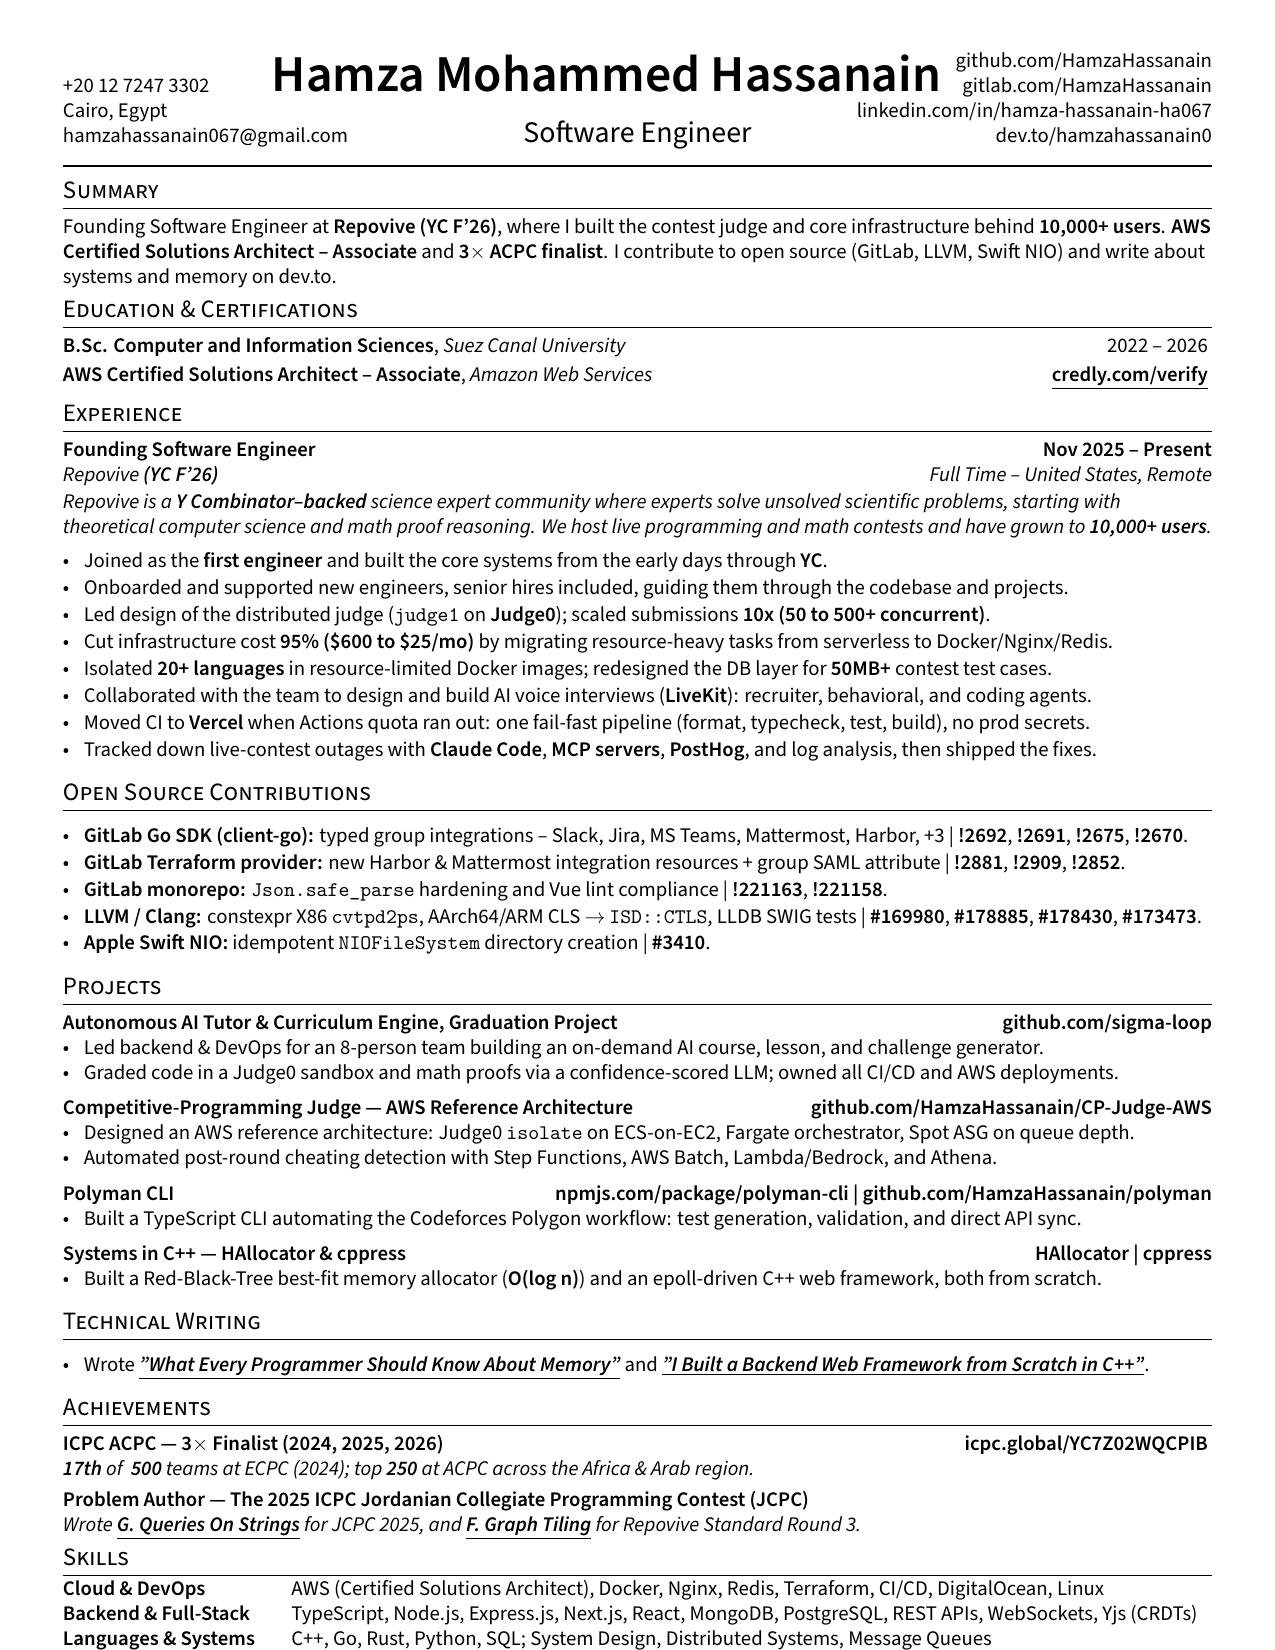
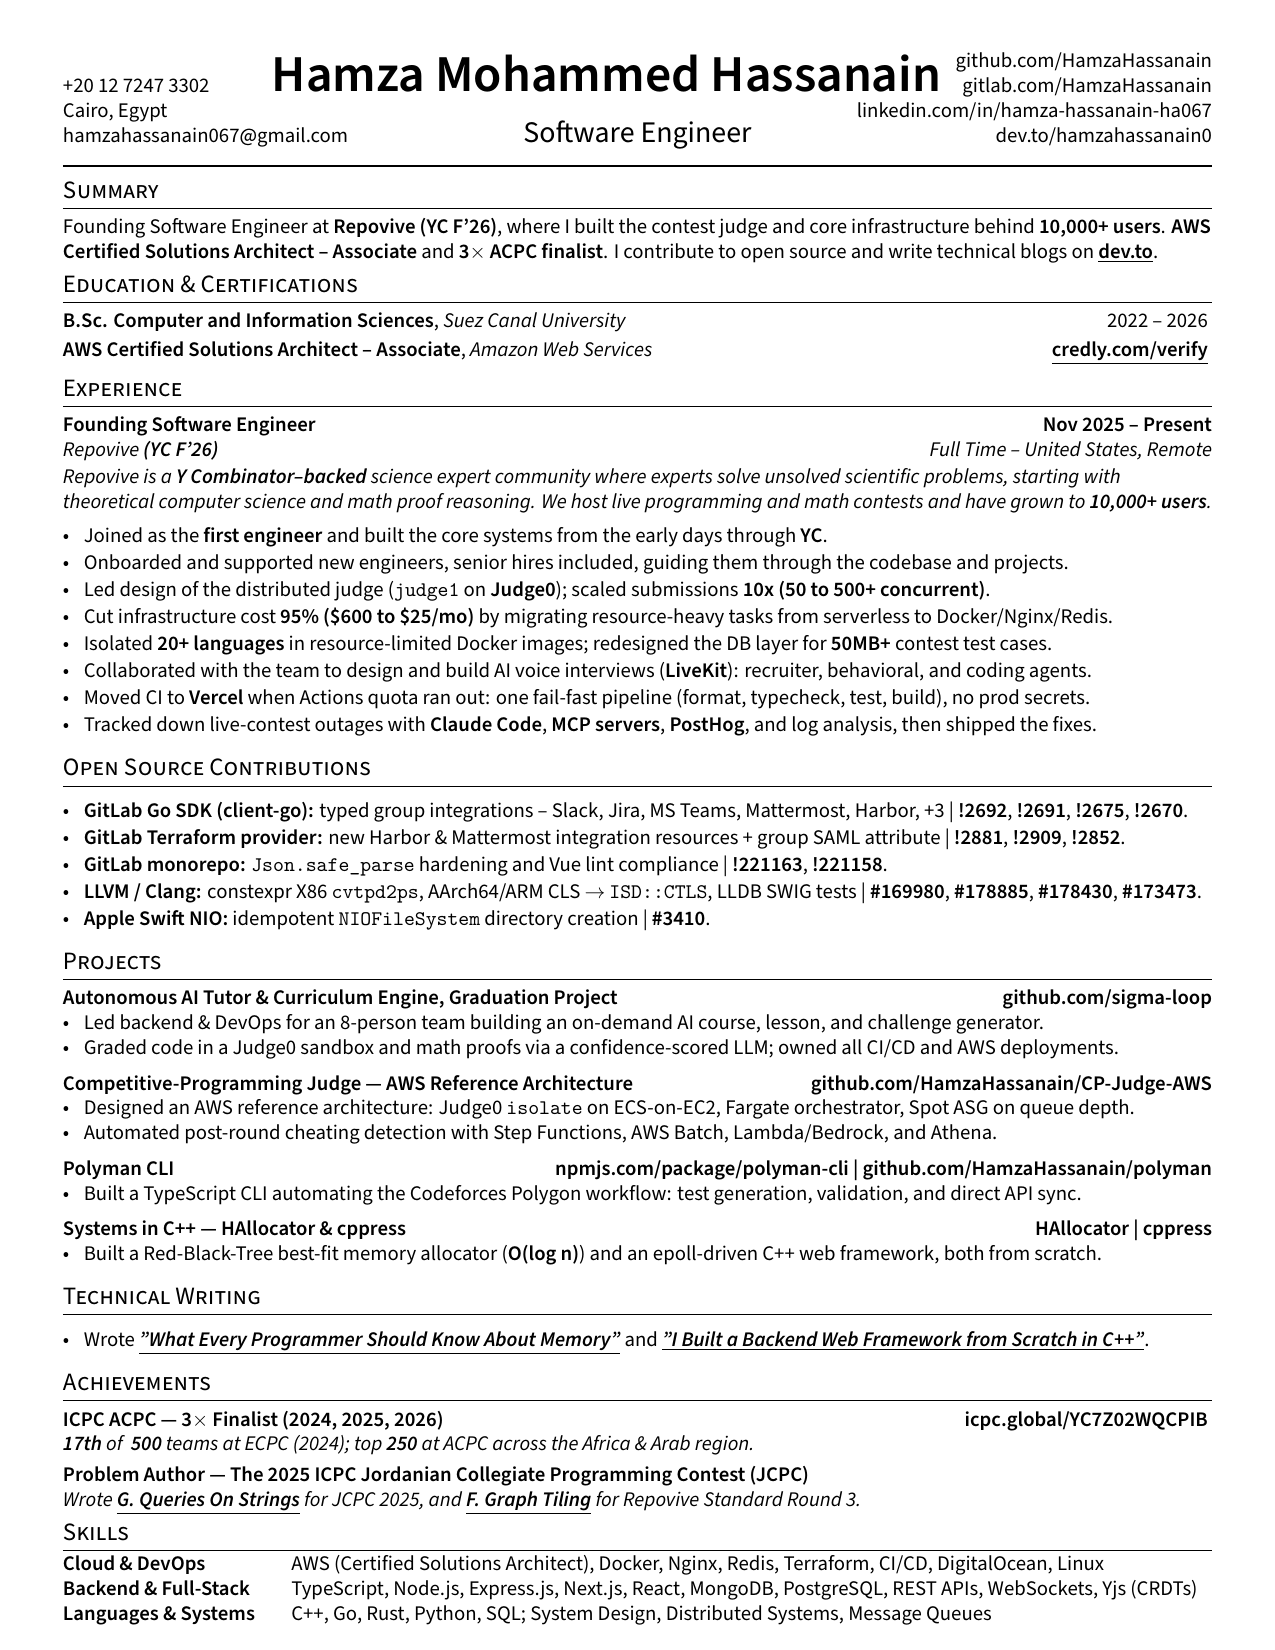
Summary: trim to two lines, link dev.to
The open-source project list duplicated the section right below it; dropping
it brings the summary to two lines and frees space, and "technical blogs on
dev.to" now links to the blog.

diff --git a/sections/summary.tex b/sections/summary.tex
@@ -1,1 +1,1 @@
-Founding Software Engineer at \textbf{Repovive (YC F'26)}, where I built the contest judge and core infrastructure behind \textbf{10,000+ users}. \textbf{AWS Certified Solutions Architect -- Associate} and \textbf{3$\times$ ACPC finalist}. I contribute to open source (GitLab, LLVM, Swift NIO) and write about systems and memory on dev.to.
+Founding Software Engineer at \textbf{Repovive (YC F'26)}, where I built the contest judge and core infrastructure behind \textbf{10,000+ users}. \textbf{AWS Certified Solutions Architect -- Associate} and \textbf{3$\times$ ACPC finalist}. I contribute to open source and write technical blogs on \href{https://dev.to/hamzahassanain0}{\underline{\textbf{dev.to}}}.
